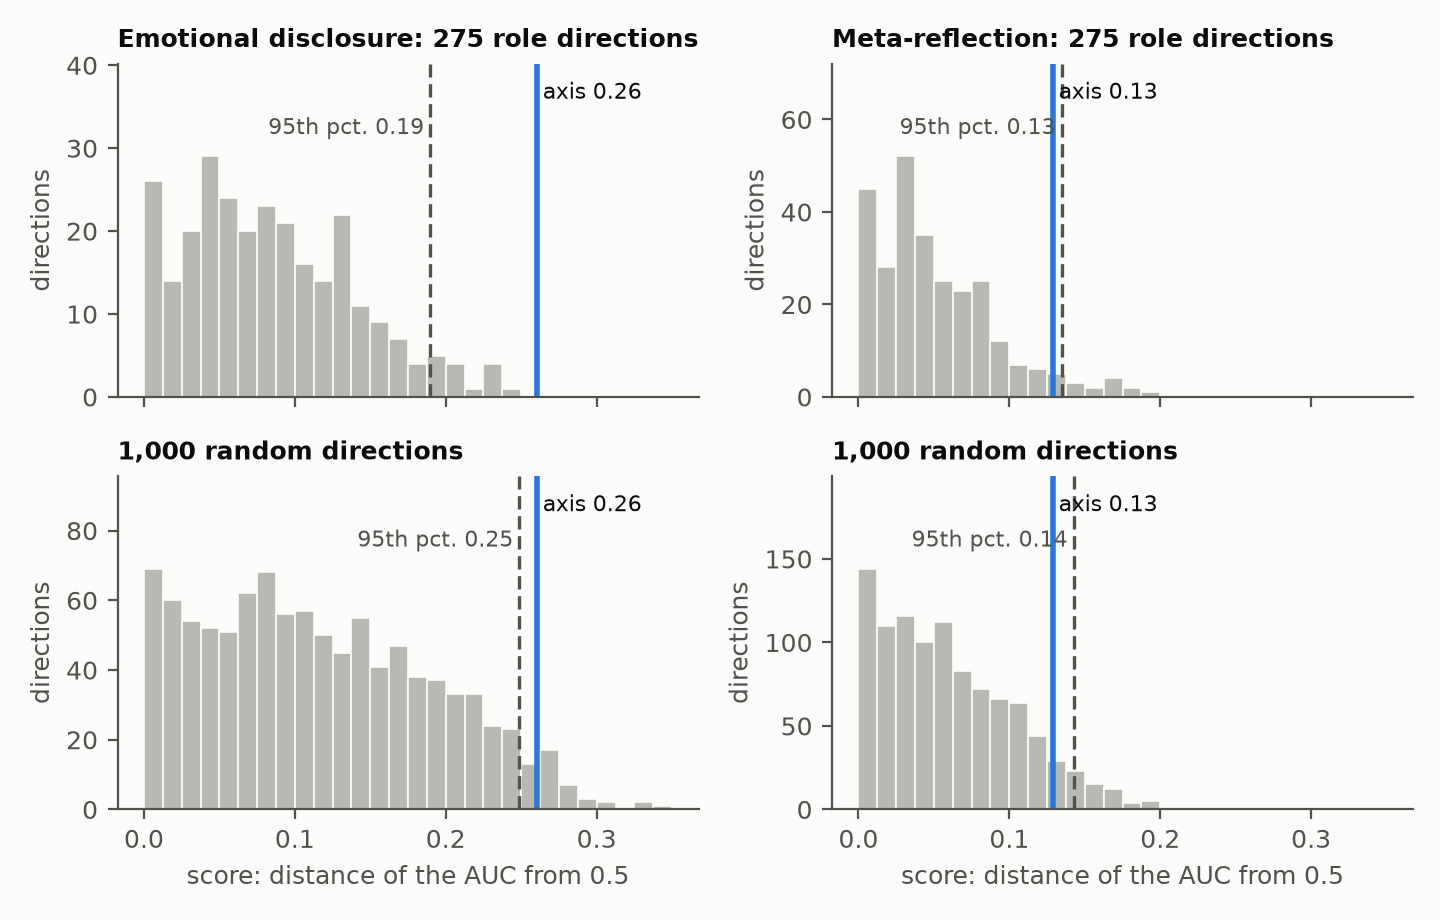
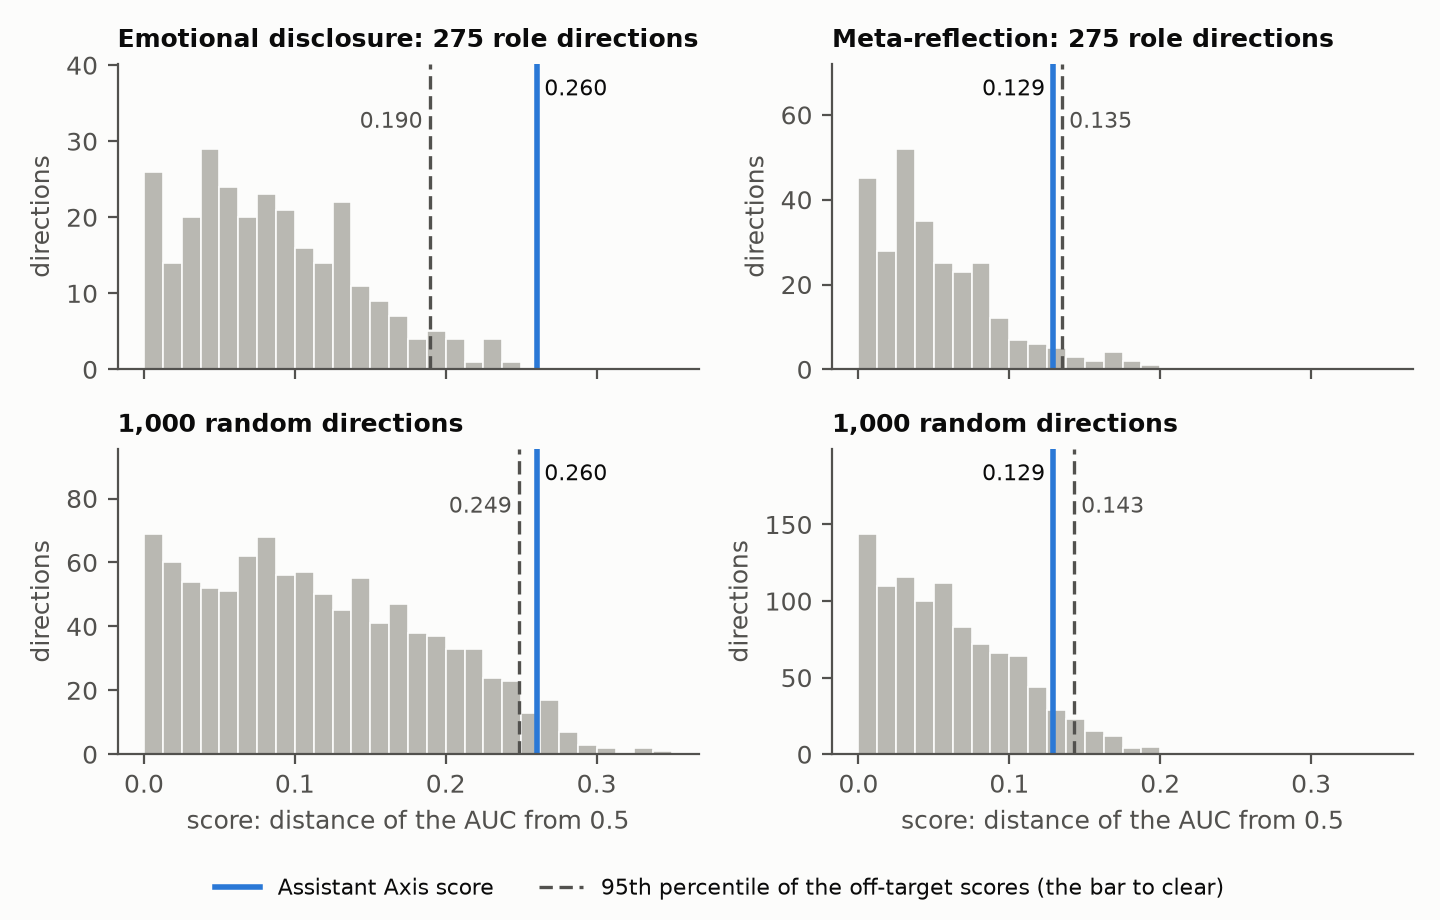
Figure 1: name the dashed line, print both values to three decimals
The dashed line is the 95th percentile of the off-target scores, not an
interval. A legend and the caption now say so, and each value is written
on the outer side of its own line so the two labels cannot collide.

Claude-Session: https://claude.ai/code/session_01BrY3HFJyQm2maCcNk984gc

diff --git a/src/analysis/figures.py b/src/analysis/figures.py
@@ -69,16 +69,24 @@ def figure1(set_name: str, analysis: dict, out: Path) -> None:
             ax = axes[row, col]
             ax.hist(g["off_scores"], bins=np.arange(0, 0.36, 0.0125), color=NEUTRAL, edgecolor=SURFACE, linewidth=0.6)
             top = ax.get_ylim()[1]
-            ax.axvline(g["bar"], color=MUTED, linewidth=1.2, linestyle=(0, (4, 2)))
-            ax.axvline(g["target_score"], color=BLUE, linewidth=2)
-            ax.text(g["bar"] - 0.004, top * 1.02, f"95th pct. {g['bar']:.2f}", color=MUTED, ha="right", va="bottom", fontsize=8)
-            ax.text(g["target_score"] + 0.004, top * 1.16, f"axis {g['target_score']:.2f}", color=INK, ha="left", va="bottom", fontsize=8)
+            bar_line = ax.axvline(g["bar"], color=MUTED, linewidth=1.2, linestyle=(0, (4, 2)))
+            axis_line = ax.axvline(g["target_score"], color=BLUE, linewidth=2)
+            # each value is written on the outer side of its own line, so the two never meet
+            for value, colour, height in ((g["bar"], MUTED, 1.02), (g["target_score"], INK, 1.16)):
+                left = value < max(g["bar"], g["target_score"])
+                ax.text(value + (-0.005 if left else 0.005), top * height, f"{value:.3f}", color=colour,
+                        ha="right" if left else "left", va="bottom", fontsize=8)  # fmt: skip
             ax.set_ylim(0, top * 1.32)
             ax.set_title(f"{NAMES[s]}: {label}" if row == 0 else label, fontsize=9)
             ax.set_ylabel("directions")
             if row == len(bars) - 1:
                 ax.set_xlabel("score: distance of the AUC from 0.5")
-    fig.tight_layout()
+    fig.legend(
+        [axis_line, bar_line],
+        ["Assistant Axis score", "95th percentile of the off-target scores (the bar to clear)"],
+        loc="lower center", ncol=2, frameon=False, fontsize=8,
+    )  # fmt: skip
+    fig.tight_layout(rect=(0, 0.06, 1, 1))
     fig.savefig(out / "fig1_off_target_distributions.png", dpi=200)
     plt.close(fig)
 

diff --git a/WRITEUP.md b/WRITEUP.md
@@ -132,8 +132,9 @@ to the point estimates because resampling raises the 95th percentile of the off-
 
 ![The axis's score against the off-target distributions](results/main/figures/fig1_off_target_distributions.png)
 
-*Figure 1. Scores of the off-target directions in the two types that enter, with their 95th
-percentile (dashed) and the axis's score (blue).*
+*Figure 1. Scores of the off-target directions in the two types that enter (grey), the 95th
+percentile of those scores (dashed), which is the bar the axis must clear, and the axis's score
+(blue). The dashed line is not a confidence interval; the intervals are in Figure 2.*
 
 ![Gaps with intervals](results/main/figures/fig2_gaps.png)
 
